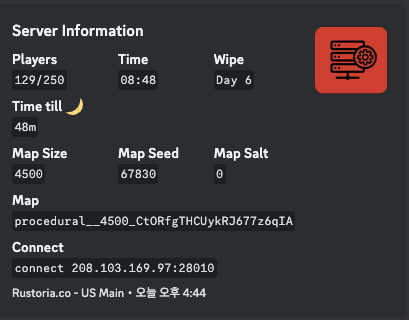
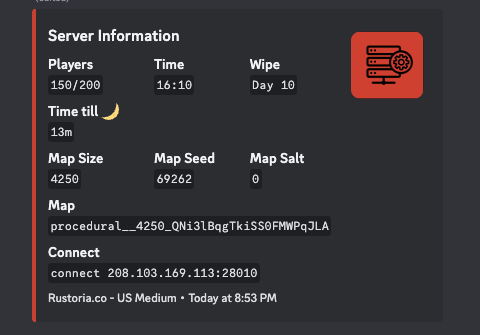
refactor : change information image and update mainpage background image css

diff --git a/src/pages/mainpage.module.css b/src/pages/mainpage.module.css
@@ -16,6 +16,8 @@
     url('/images/background.png') #d3d3d3 0px 0px / 100% 100% no-repeat;
   margin-bottom: 2rem;
   padding: 2rem;
+  background-size: cover;
+  background-position: center;
 }
 
 .heroContent {
